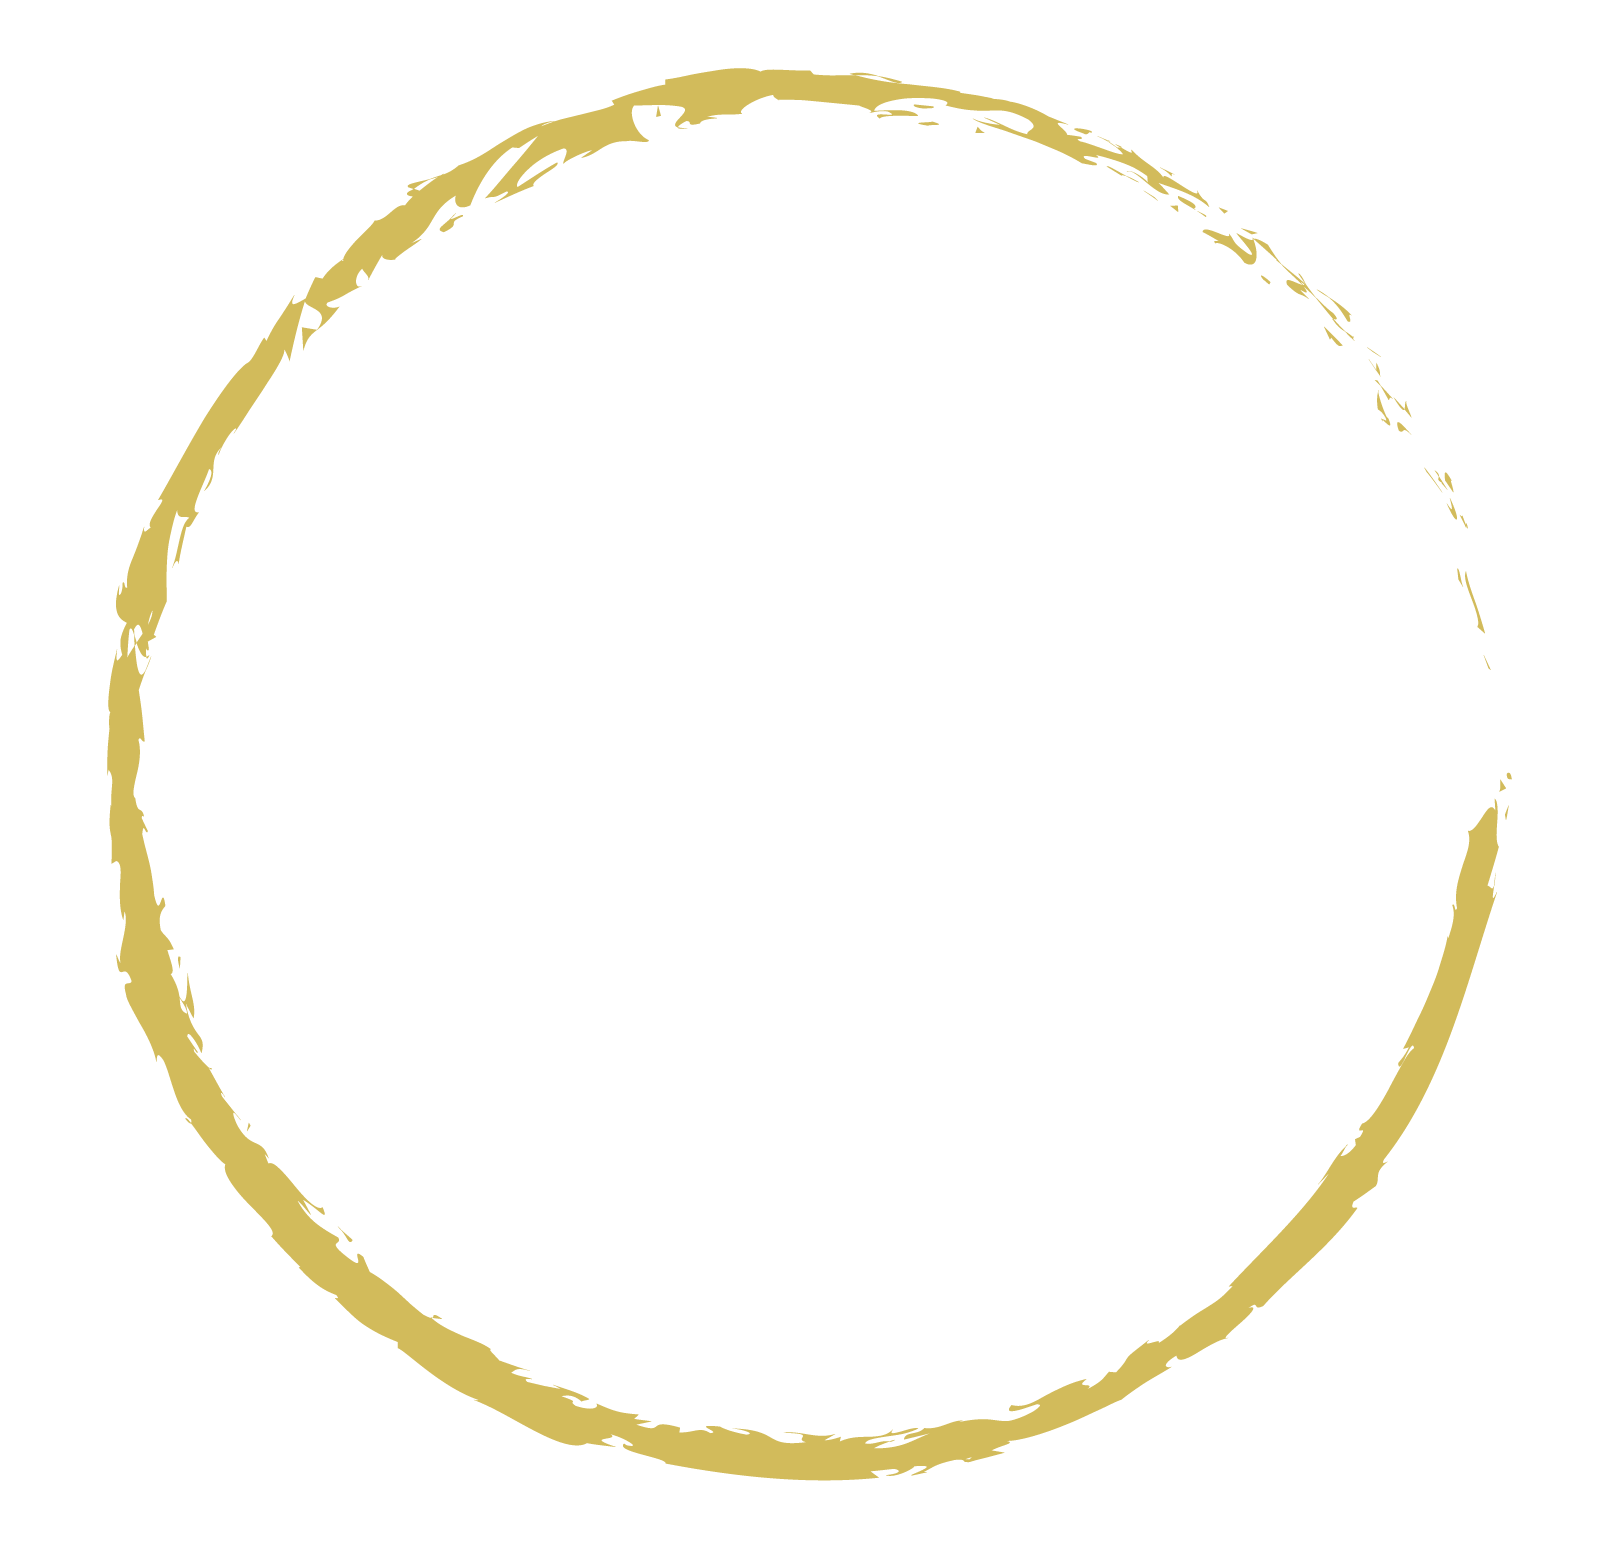
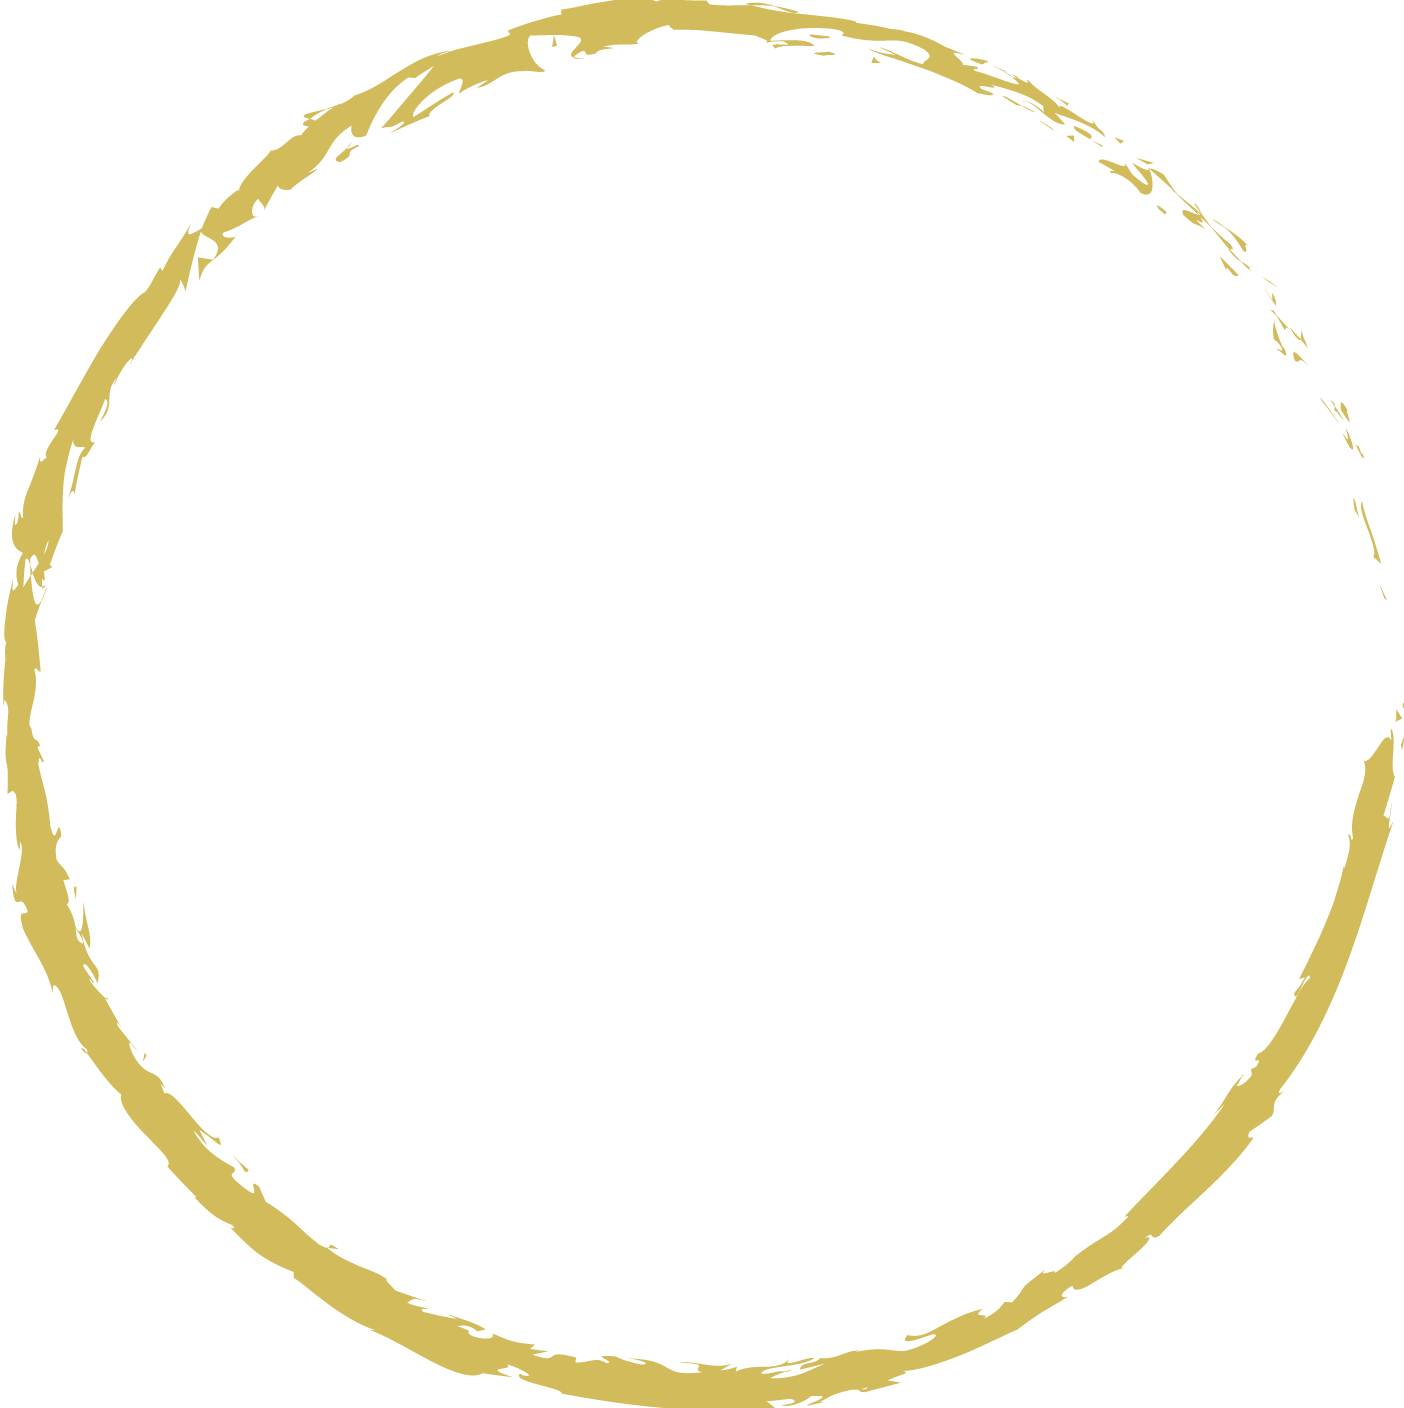
Adding gold cirles

diff --git a/il-locale.html b/il-locale.html
@@ -68,6 +68,7 @@
         <div class=" emp emp1">
             <div class="emp__image">
                 <img class="center-img blackwhite" src="img/Emanuele Ornagi 2.png" alt="Emanuele Ornaghi">
+                <img src="img/gold-circle.png" alt="" class="gold-circle">
             </div>
             <div class="emp__content">
                 <p class="subtitle center">Emanuele Ornaghi</p>
@@ -87,6 +88,7 @@
         <div class="emp emp2">
             <div class="emp__image">
                 <img class="center-img blackwhite" src="img/Stefano-Invernizzi.jpg" alt="Stefano Invernizzi">
+                <img src="img/gold-circle.png" alt="" class="gold-circle" style="transform: rotate(70deg);">
             </div>
             <div class="emp__content">
                 <p class="subtitle center">Stefano Invernizzi</p>

diff --git a/css/style.css b/css/style.css
@@ -213,6 +213,7 @@ header {
 
 .emp__image {
   padding-bottom: 50px;
+  display: flex;
 }
 
 .emp__content {
@@ -232,6 +233,12 @@ header {
   border-radius: 50%;
 }
 
+.gold-circle {
+  position: absolute;
+  margin: -5px -5px;
+  width: 93% !important;
+}
+
 @media (min-width: 768px) {
   .img-paragraph {
     align-items: center;
@@ -245,7 +252,7 @@ header {
     width: 45%;
   }
 
-  .emp__image{
+  .emp__image {
     display: flex;
     padding-bottom: 100px;
   }
@@ -305,11 +312,11 @@ footer {
 }
 
 /* SHOW PDF */
-.show-pdf{
+.show-pdf {
   display: flex;
   max-width: 100%;
   min-width: 50%;
-  height:80vh;
+  height: 80vh;
   margin: 0 auto;
 }
 
